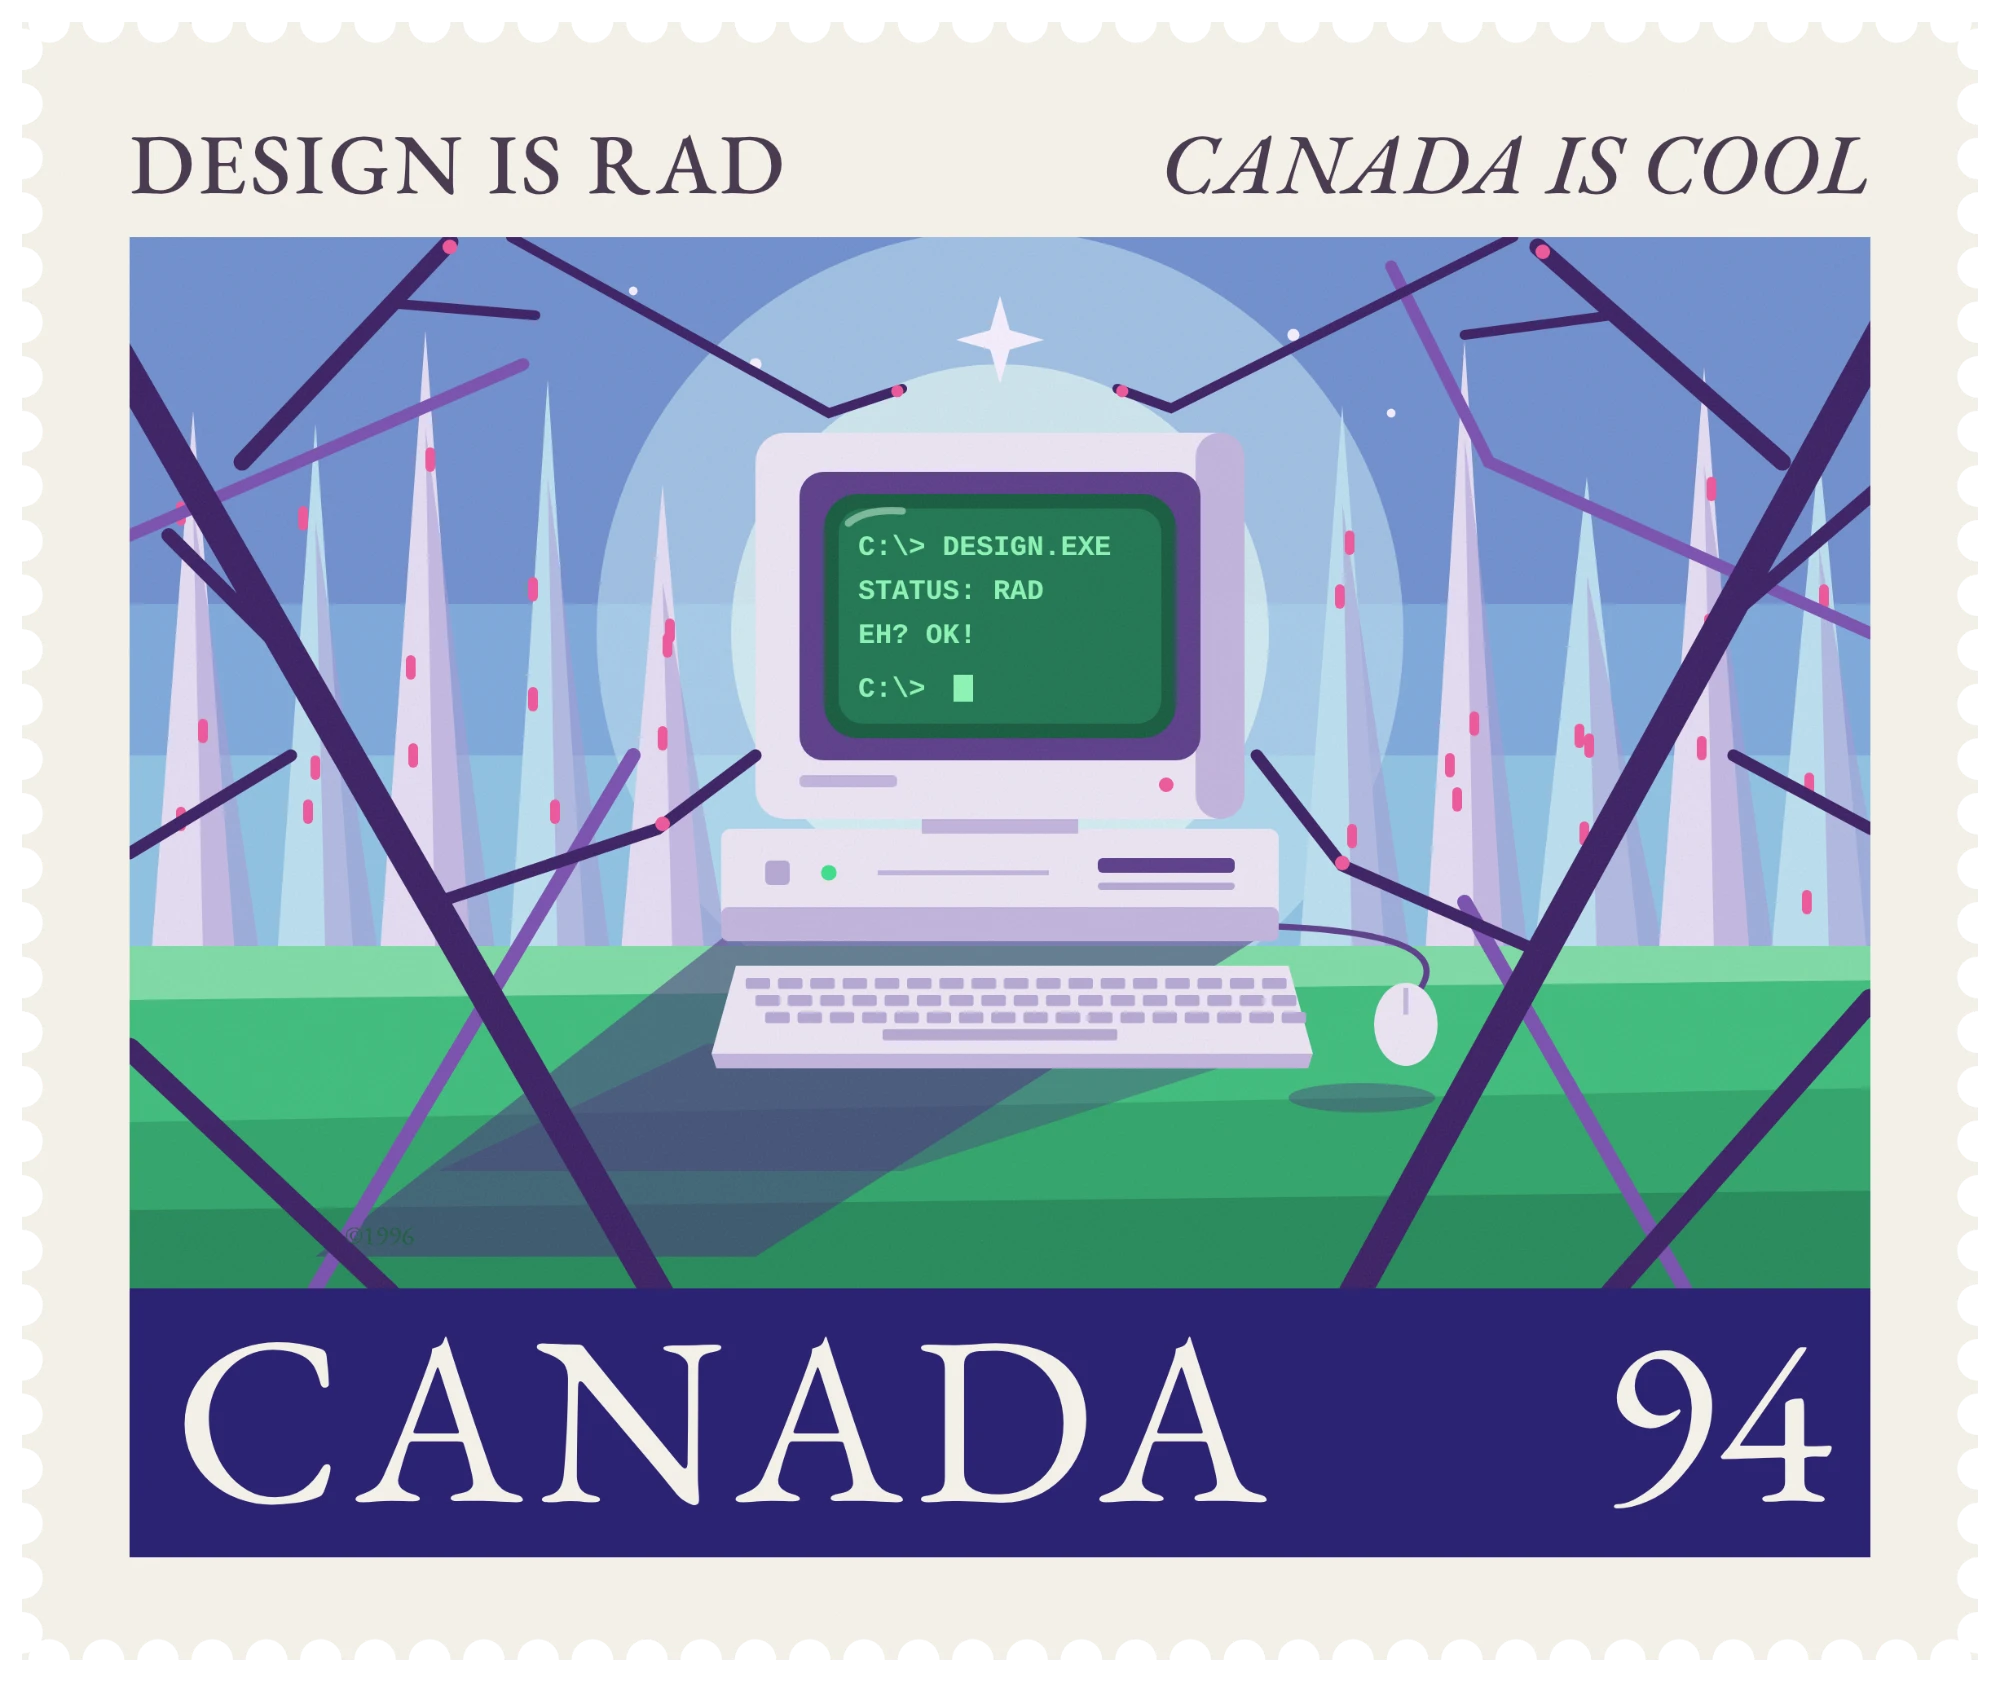
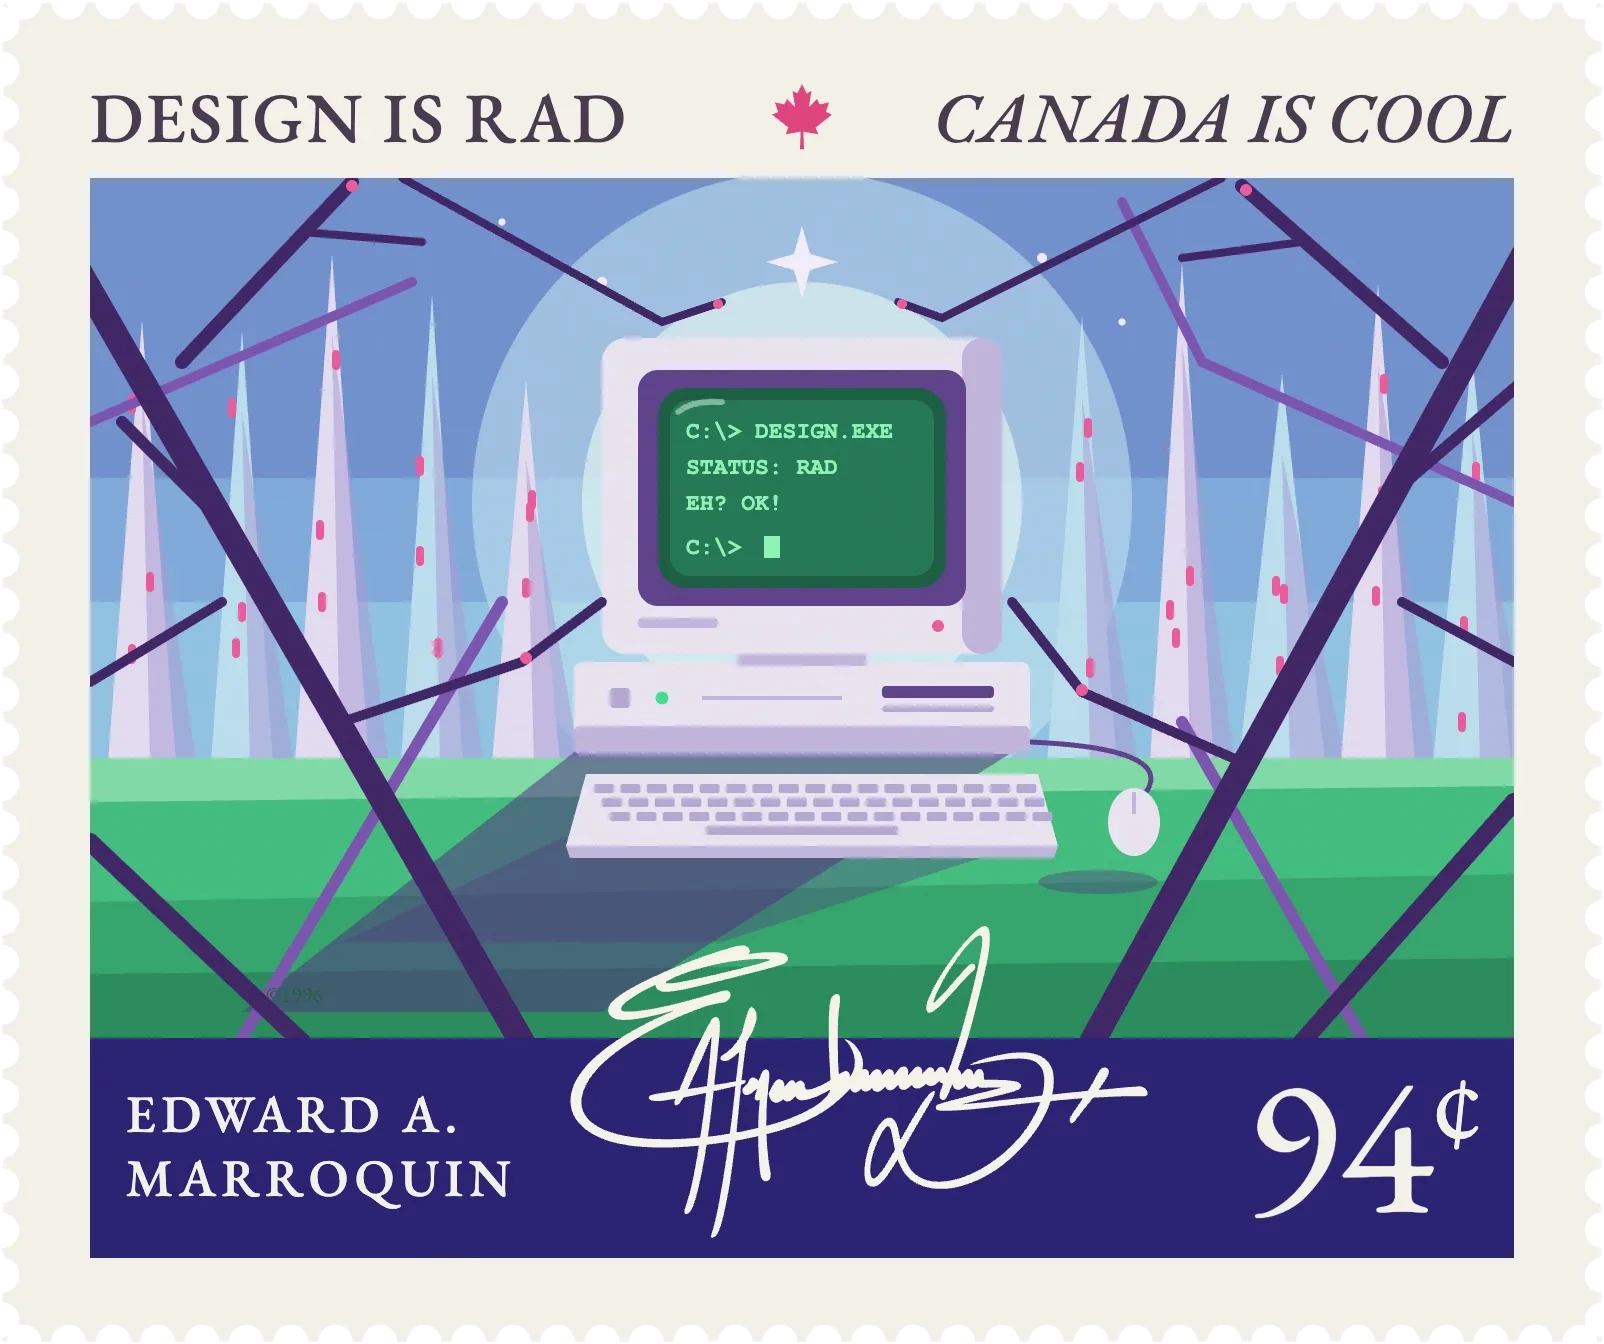
Replace the stamp with the signed Edward A. Marroquin version
New stamp on the loading screen, under the fold and in the lightbox, with a
transparent background and updated description.

diff --git a/index.html b/index.html
@@ -8,21 +8,21 @@
   <link rel="preconnect" href="https://fonts.googleapis.com">
   <link rel="preconnect" href="https://fonts.gstatic.com" crossorigin>
   <link href="https://fonts.googleapis.com/css2?family=Geist:wght@400;500;600;700&family=Geist+Mono:wght@400&display=swap" rel="stylesheet">
-  <link rel="stylesheet" href="style.css?v=110">  <!-- bump the number after changing style.css so browsers load the new version -->
+  <link rel="stylesheet" href="style.css?v=111">  <!-- bump the number after changing style.css so browsers load the new version -->
   <!-- Loading screen: hide the page until it's revealed (see "Loading screen" in style.css).
        Set here, before anything draws, so the page never flashes in first. -->
   <script>
     document.documentElement.classList.add("is-loading");
     window.loadStart = performance.now();
   </script>
-  <link rel="preload" href="images/stamp.webp" as="image" fetchpriority="high">
+  <link rel="preload" href="images/stamp.webp?v=2" as="image" fetchpriority="high">
 </head>
 <body>
 
   <!-- ===== Loading screen: the stamp sways while the bar fills, then the page comes in ===== -->
   <div class="loader" role="status" aria-label="Loading">
     <div class="loader-stamp">
-      <img src="images/stamp.webp" width="2000" height="1682" alt="">
+      <img src="images/stamp.webp?v=2" width="1604" height="1344" alt="">
       <span class="loader-shine" aria-hidden="true"></span>
     </div>
     <div class="loader-bar" aria-hidden="true"><span></span></div>
@@ -52,7 +52,7 @@
            clicking it (or the fold) opens it full size (see "Stamp" in style.css) -->
       <span class="stamp-pocket">
         <button class="stamp" type="button" aria-label="Open the hidden stamp" aria-haspopup="dialog" aria-controls="stamp-lightbox">
-          <img src="images/stamp.webp" width="2000" height="1682" alt="">
+          <img src="images/stamp.webp?v=2" width="1604" height="1344" alt="">
         </button>
       </span>
       <span class="fold" aria-hidden="true"><span class="fold-flap"></span></span>
@@ -348,7 +348,7 @@
   <div class="lightbox" id="stamp-lightbox" role="dialog" aria-modal="true" aria-label="Stamp: Design is rad, Canada is cool">
     <div class="lightbox-stage">
       <div class="lightbox-tilt">
-        <img src="images/stamp.webp" width="2000" height="1682" alt="A vintage-style Canadian postage stamp reading “Design is rad” and “Canada is cool”: a beige retro computer glowing in a purple forest, its green screen showing C:\> DESIGN.EXE, STATUS: RAD, EH? OK! Below, “CANADA 94”.">
+        <img src="images/stamp.webp?v=2" width="1604" height="1344" alt="A vintage-style Canadian postage stamp reading “Design is rad” and “Canada is cool” with a maple leaf: a beige retro computer glowing in a purple forest, its green screen showing C:\> DESIGN.EXE, STATUS: RAD, EH? OK! Along the bottom, “Edward A. Marroquin”, his signature and “94¢”.">
         <span class="lightbox-glare" aria-hidden="true"></span>
       </div>
     </div>

diff --git a/style.css b/style.css
@@ -914,8 +914,8 @@ h1, h2, h3 {
   background: linear-gradient(105deg,
     rgba(255, 255, 255, 0) 35%, rgba(255, 255, 255, 0.45) 50%, rgba(255, 255, 255, 0) 65%)
     0 0 / 300% 100% no-repeat;
-  -webkit-mask: url("images/stamp.webp") center / 100% 100% no-repeat;
-  mask: url("images/stamp.webp") center / 100% 100% no-repeat;
+  -webkit-mask: url("images/stamp.webp?v=2") center / 100% 100% no-repeat;
+  mask: url("images/stamp.webp?v=2") center / 100% 100% no-repeat;
   animation: loader-shine 1.6s ease-in-out 0.3s infinite;
 }
 
@@ -1140,8 +1140,8 @@ h1, h2, h3 {
   inset: 0;
   pointer-events: none;
   background: radial-gradient(circle at var(--gx) var(--gy), rgba(255, 255, 255, 0.22), rgba(255, 255, 255, 0) 55%);
-  -webkit-mask: url("images/stamp.webp") center / 100% 100% no-repeat;
-  mask: url("images/stamp.webp") center / 100% 100% no-repeat;
+  -webkit-mask: url("images/stamp.webp?v=2") center / 100% 100% no-repeat;
+  mask: url("images/stamp.webp?v=2") center / 100% 100% no-repeat;
   opacity: 0;
   transition: opacity 0.4s ease;
 }
